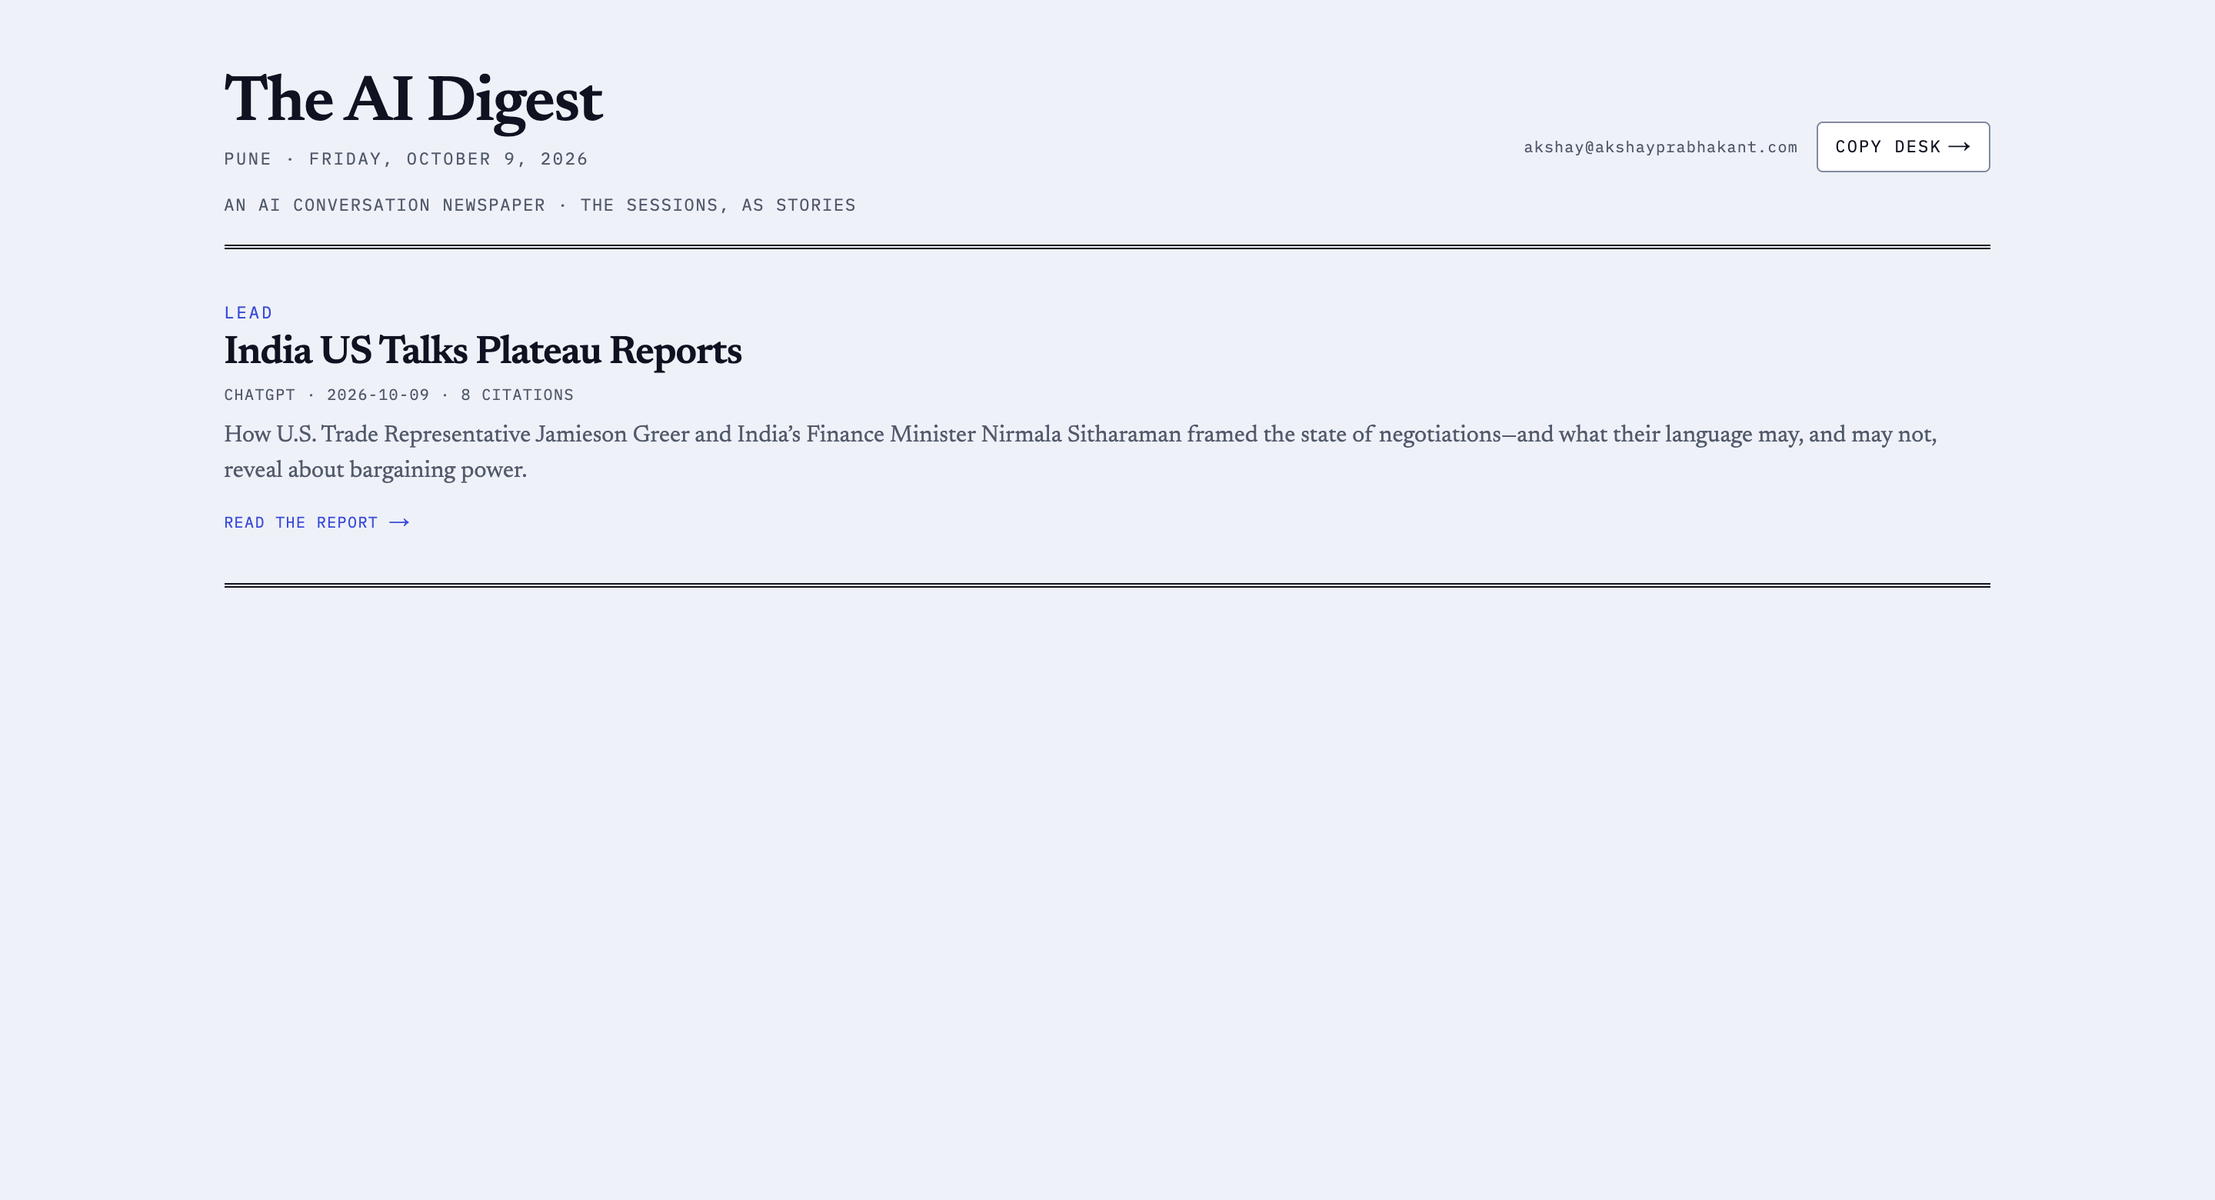
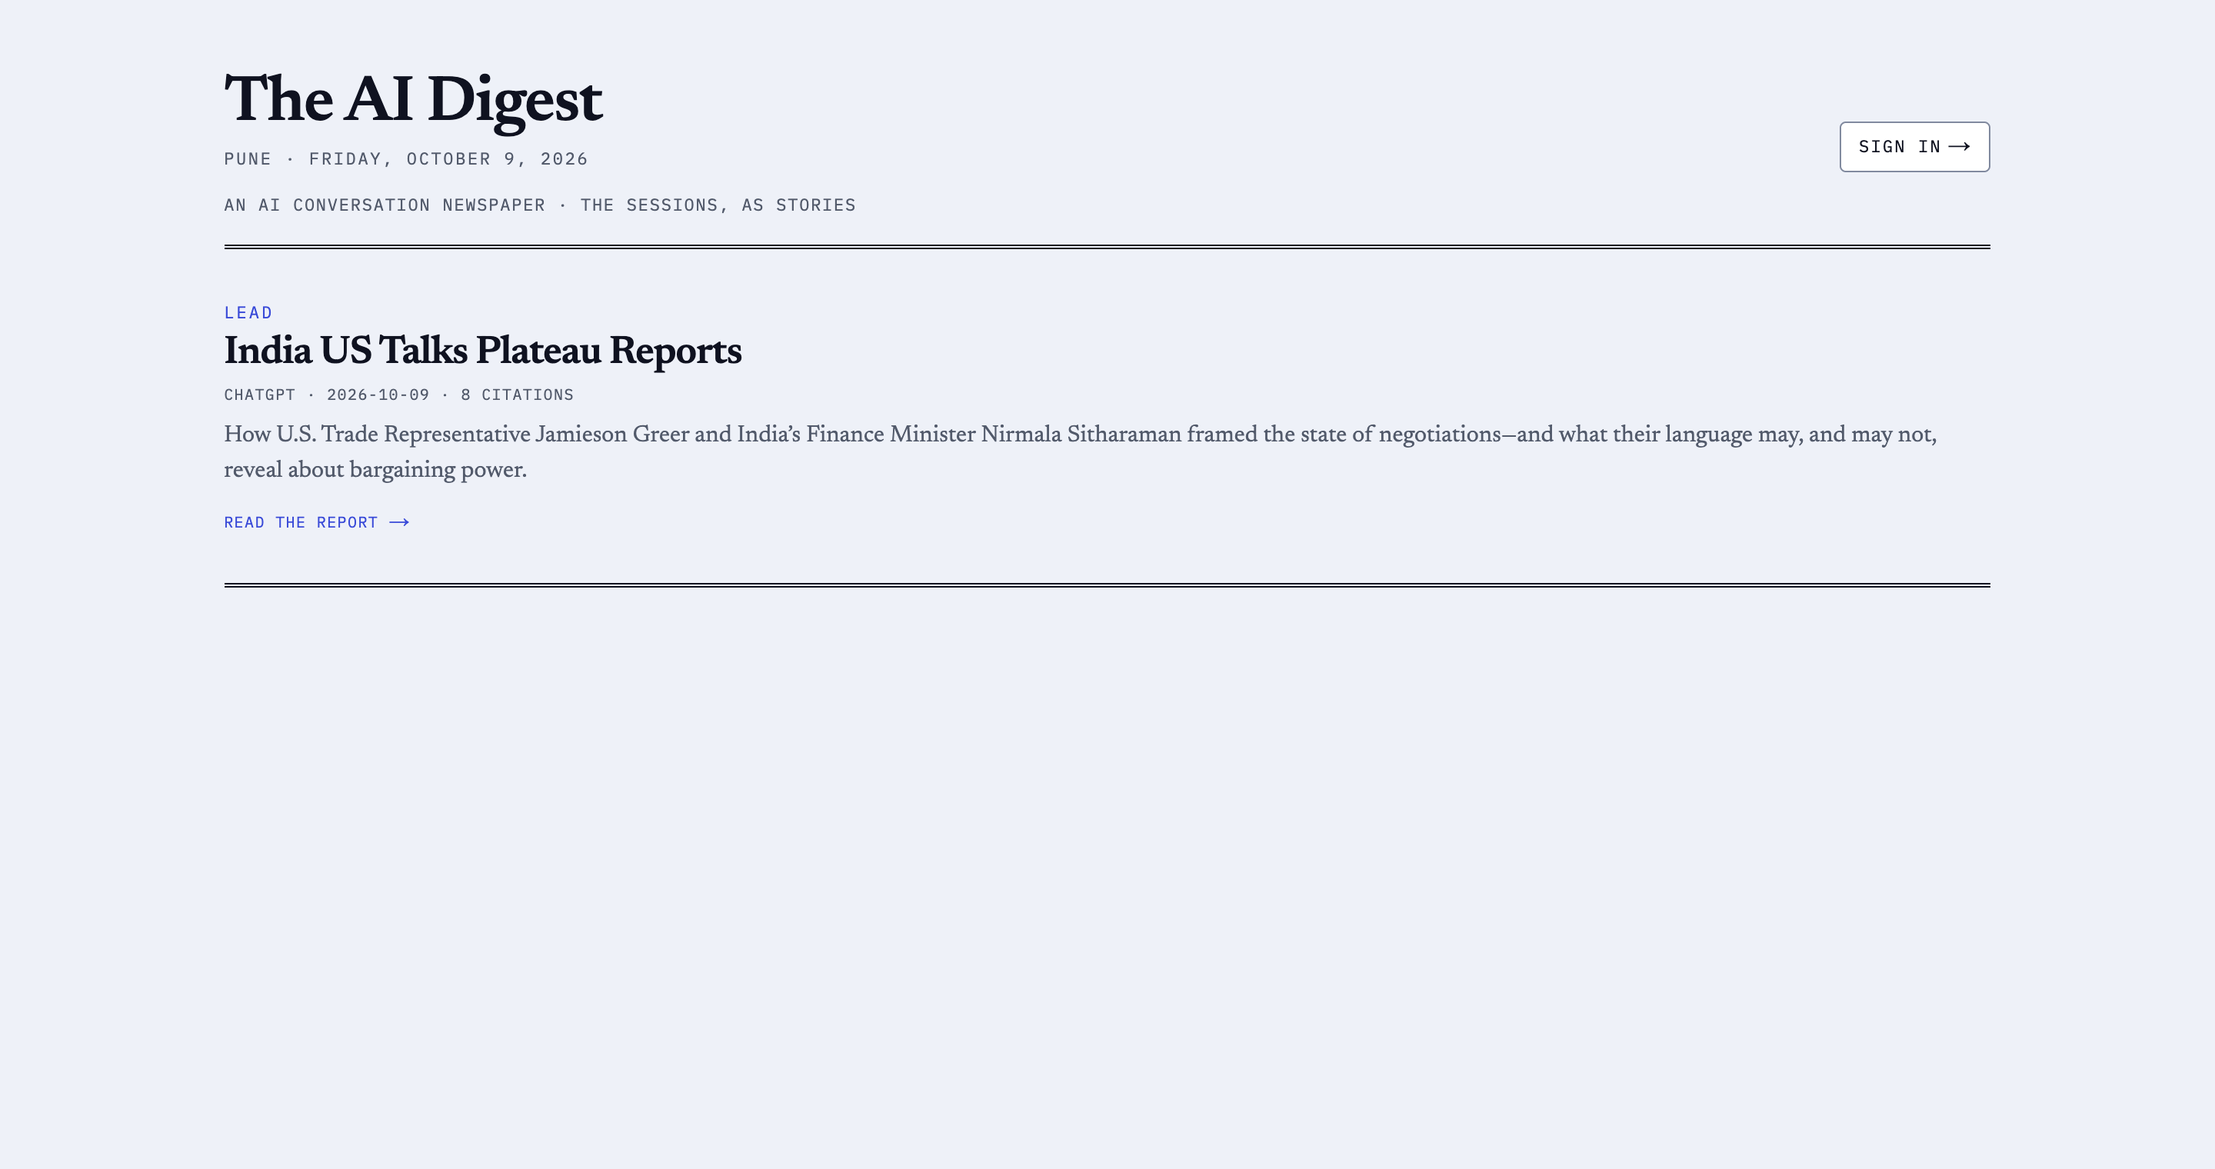
Stop publishing filer addresses on a public archive
Two leaks, one visible and one not.

The visible one: the masthead printed the signed-in reader's address next to
the Copy desk chip. On a public newspaper that is the one place an email must
never appear — the whole design keeps addresses out of URLs and out of
payloads, and stamping one into the nameplate undoes that for anyone reading
over a shoulder, in a screenshot, or on a projector. The slot is now just
"Sign in" or "Copy desk".

The invisible one is worse, and it was mine: I added c.owner_email to the
list_all SELECT when the edition went public, which put every filer's address
into the JSON served to anonymous visitors at GET /api/sessions. Nothing
rendered it, so it never showed up on screen — it was only visible by reading
the raw response:

    "owner_email": "akshay@akshayprabhakant.com"

So the fix is not cosmetic. Both listings now omit owner_email from their
SELECT: the column is read for its WHERE clause and its uniqueness, never to
be handed to a client. Provenance is still recorded and still keys the upsert,
and exactly one endpoint returns an address — /api/whoami, to the person it
belongs to. The copy desk still shows it, deliberately: it is a gated page, and
"which account am I filing as?" is a real question before a write.

/api/health on the local server also echoed dev_email; it now reports
dev_identity_configured as a boolean. An unauthenticated endpoint that echoes
an address leaks one the moment it is exposed by a tunnel or a mis-set PORT,
[…]

Changed region(s): [[0.0938, 0.2474, 0.875, 0.4947], [0.0938, 0.0618, 0.9062, 0.2164], [0.8125, 0.0928, 0.9062, 0.1546]]

diff --git a/frontend/app/components/MastheadActions.tsx b/frontend/app/components/MastheadActions.tsx
@@ -9,33 +9,37 @@ import { whoami } from '@/lib/api';
  * public pages.
  *
  *   signed out → Sign in
- *   signed in  → Copy desk, plus who you are
+ *   signed in  → Copy desk
  *
- * There is deliberately no import box here any more. Filing copy is a
- * different job from reading the paper, and it belongs on its own page: an
- * input wedged into the nameplate was both cramped and permanently visible to
- * people who could not use it.
+ * Two things are deliberately absent.
+ *
+ * There is no import box: filing copy is a different job from reading the
+ * paper, and it belongs on its own page. An input wedged into the nameplate
+ * was both cramped and permanently visible to people who could not use it.
+ *
+ * And there is no address. Printing "akshay@akshayprabhakant.com" in the
+ * nameplate of a *public* newspaper is the one place an email must never
+ * appear — the whole design keeps addresses off the wire and out of URLs, and
+ * stamping one into the masthead undoes that for anyone looking over a
+ * shoulder, in a screenshot, or on a projector. The desk confirms who you are
+ * signed in as, on the one page that requires signing in to see.
  *
  * Sign in is an <a> styled as a button, not a <button>: it navigates, so link
  * semantics (middle-click, open-in-new-tab, screen-reader "link") are the
  * correct ones.
  */
 export default function MastheadActions() {
-  const [email, setEmail] = useState<string | null>(null);
-  const [resolved, setResolved] = useState(false);
+  const [signedIn, setSignedIn] = useState<boolean | null>(null);
 
   useEffect(() => {
     let cancelled = false;
     whoami()
-      .then((value) => {
-        if (!cancelled) setEmail(value);
+      .then((email) => {
+        if (!cancelled) setSignedIn(Boolean(email));
       })
       .catch(() => {
         // The backend being down is not a reason to hide the sign-in link.
-        if (!cancelled) setEmail(null);
-      })
-      .finally(() => {
-        if (!cancelled) setResolved(true);
+        if (!cancelled) setSignedIn(false);
       });
     return () => {
       cancelled = true;
@@ -43,25 +47,12 @@ export default function MastheadActions() {
   }, []);
 
   // Reserve the slot while resolving so the masthead does not reflow.
-  if (!resolved) return <div className="mh-actions" aria-hidden="true" />;
-
-  if (!email) {
-    return (
-      <div className="mh-actions">
-        <Link href="/chat-archives/login" className="signin">
-          Sign in <span aria-hidden="true">→</span>
-        </Link>
-      </div>
-    );
-  }
+  if (signedIn === null) return <div className="mh-actions" aria-hidden="true" />;
 
   return (
     <div className="mh-actions">
-      <span className="reader" title={email}>
-        {email}
-      </span>
-      <Link href="/chat-archives/desk" className="signin">
-        Copy desk <span aria-hidden="true">→</span>
+      <Link href={signedIn ? '/chat-archives/desk' : '/chat-archives/login'} className="signin">
+        {signedIn ? 'Copy desk' : 'Sign in'} <span aria-hidden="true">→</span>
       </Link>
     </div>
   );

diff --git a/frontend/types/index.ts b/frontend/types/index.ts
@@ -3,9 +3,13 @@ export interface Session {
   title: string;
   created_at: string;
   source: string;
-  /** Who filed it. Provenance, shown as a credit — not an access boundary. */
-  owner_email?: string | null;
-  /** Raw markdown of the summary report (the "thumbnail"). */
+  /**
+   * Raw markdown of the summary report (the "thumbnail").
+   *
+   * Note there is no `owner_email` here. Provenance is stored server-side and
+   * never sent on a listing: `/api/sessions` answers anonymous visitors, so a
+   * per-row address would publish every filer's email in the JSON.
+   */
   markdown?: string | null;
 }
 

diff --git a/frontend/app/globals.css b/frontend/app/globals.css
@@ -155,18 +155,6 @@ body {
   transform: translateY(1px);
 }
 
-/* The signed-in reader's address, set like a small masthead credit. */
-.mh-actions .reader {
-  font-family: var(--mono);
-  font-size: 0.625rem;
-  letter-spacing: 0.06em;
-  color: var(--muted);
-  max-width: 14rem;
-  overflow: hidden;
-  text-overflow: ellipsis;
-  white-space: nowrap;
-}
-
 /* ── the copy desk ─────────────────────────────────── */
 .desk {
   max-width: 44rem;

diff --git a/backend/chat_archive/sqlite_repository.py b/backend/chat_archive/sqlite_repository.py
@@ -247,25 +247,21 @@ class SqliteConversationRepository(ConversationRepository):
         )
 
     async def list_all(self, limit: int = 200) -> list[dict]:
-        """The public edition: every filed story, newest first, no owner filter."""
+        """The public edition: every filed story, newest first, no owner filter.
+
+        ``owner_email`` is deliberately not selected — see the D1 implementation
+        for why.
+        """
         with self._lock:
             rows = self._conn.execute(
-                "SELECT c.external_id AS id, c.title, c.created_at, c.source, c.owner_email, "
-                "r.markdown "
+                "SELECT c.external_id AS id, c.title, c.created_at, c.source, r.markdown "
                 "FROM conversations c "
                 "LEFT JOIN reports r ON r.conversation_id = c.id "
                 "ORDER BY c.created_at DESC LIMIT ?",
                 (limit,),
             ).fetchall()
         return [
-            {
-                "id": r[0],
-                "title": r[1],
-                "created_at": r[2],
-                "source": r[3],
-                "owner_email": r[4],
-                "markdown": r[5],
-            }
+            {"id": r[0], "title": r[1], "created_at": r[2], "source": r[3], "markdown": r[4]}
             for r in rows
         ]
 
@@ -276,8 +272,7 @@ class SqliteConversationRepository(ConversationRepository):
 
         with self._lock:
             rows = self._conn.execute(
-                "SELECT c.external_id AS id, c.title, c.created_at, c.source, c.owner_email, "
-                "r.markdown "
+                "SELECT c.external_id AS id, c.title, c.created_at, c.source, r.markdown "
                 "FROM conversations c "
                 "LEFT JOIN reports r ON r.conversation_id = c.id "
                 "WHERE c.owner_email = ? "
@@ -285,13 +280,6 @@ class SqliteConversationRepository(ConversationRepository):
                 (owner, limit),
             ).fetchall()
         return [
-            {
-                "id": r[0],
-                "title": r[1],
-                "created_at": r[2],
-                "source": r[3],
-                "owner_email": r[4],
-                "markdown": r[5],
-            }
+            {"id": r[0], "title": r[1], "created_at": r[2], "source": r[3], "markdown": r[4]}
             for r in rows
         ]

diff --git a/backend/test/test_ownership.py b/backend/test/test_ownership.py
@@ -125,9 +125,40 @@ class OwnershipContract:
         self.assertEqual({s["id"] for s in edition}, {"share-a", "share-b"})
 
     def test_the_edition_records_who_filed_each_story(self):
-        """Ownership survives as provenance, even though it gates nothing now."""
+        """Provenance is stored, even though it is never published.
+
+        The row shape must NOT carry the address: `/api/sessions` is served to
+        anonymous visitors, so returning `owner_email` here publishes the
+        filer's email to anyone who opens the JSON. Provenance stays in the
+        database — it keys the upsert and scopes list_recent.
+        """
         asyncio.run(self.repo.upsert(conversation("share-a", "A story", AKSHAY)))
-        self.assertEqual(asyncio.run(self.repo.list_all())[0]["owner_email"], AKSHAY)
+        row = asyncio.run(self.repo.list_all())[0]
+        self.assertNotIn("owner_email", row, "the public edition must not carry filer addresses")
+
+    def test_no_listing_row_ever_carries_an_email(self):
+        """Guard for both listings: no address on the wire, public or private.
+
+        The scoped endpoint already returns `owner` at the top level to the one
+        person it belongs to, so a per-row address is redundant as well as
+        risky.
+        """
+        asyncio.run(self.repo.upsert(conversation("share-a", "A story", AKSHAY)))
+
+        for label, rows in (
+            ("list_all", asyncio.run(self.repo.list_all())),
+            ("list_recent", asyncio.run(self.repo.list_recent(AKSHAY))),
+        ):
+            with self.subTest(listing=label):
+                self.assertTrue(rows, "expected at least one row")
+                for row in rows:
+                    self.assertNotIn("owner_email", row)
+                    for value in row.values():
+                        self.assertNotIn(
+                            AKSHAY,
+                            str(value),
+                            f"{label} leaked the filer's address in a field value",
+                        )
 
     # -- your own filings stay scoped ----------------------------------------
 

diff --git a/backend/chat_archive/repository.py b/backend/chat_archive/repository.py
@@ -99,10 +99,17 @@ class D1ConversationRepository(ConversationRepository):
             ).bind(report_id, conv_id).run()
 
     async def list_all(self, limit: int = 200) -> list[dict]:
-        """The public edition: every filed story, newest first, no owner filter."""
+        """The public edition: every filed story, newest first, no owner filter.
+
+        ``owner_email`` is deliberately **not selected**. This row shape is
+        served to anonymous visitors, so including the filer's address would
+        publish it to anyone who opened the JSON. Provenance stays in the
+        database — it keys the upsert and scopes :meth:`list_recent` — and the
+        only place it is ever returned to a client is `/api/whoami`, to the
+        person it belongs to.
+        """
         result = await self._db.prepare(
-            "SELECT c.external_id AS id, c.title, c.created_at, c.source, c.owner_email, "
-            "r.markdown "
+            "SELECT c.external_id AS id, c.title, c.created_at, c.source, r.markdown "
             "FROM conversations c "
             "LEFT JOIN reports r ON r.conversation_id = c.id "
             "ORDER BY c.created_at DESC LIMIT ?"
@@ -118,9 +125,11 @@ class D1ConversationRepository(ConversationRepository):
             # edition does not go through here — see list_all.)
             raise ValueError("list_recent requires an owner_email.")
 
+        # Same row shape as list_all, and for the same reason: no owner_email on
+        # the wire. The endpoint that calls this already knows who is asking —
+        # it returns `owner` at the top level.
         result = await self._db.prepare(
-            "SELECT c.external_id AS id, c.title, c.created_at, c.source, c.owner_email, "
-            "r.markdown "
+            "SELECT c.external_id AS id, c.title, c.created_at, c.source, r.markdown "
             "FROM conversations c "
             "LEFT JOIN reports r ON r.conversation_id = c.id "
             "WHERE c.owner_email = ? "

diff --git a/backend/chat_archive/local_repository.py b/backend/chat_archive/local_repository.py
@@ -55,15 +55,16 @@ class MemoryConversationRepository(ConversationRepository):
 
     @staticmethod
     def _rows(items, limit: int) -> list[dict]:
+        # No owner_email in the row shape — these rows are served to anonymous
+        # visitors on the edition endpoint. See the D1 implementation.
         rows: list[dict] = []
-        for (owner, _), conversation in items:
+        for (_, _unused), conversation in items:
             rows.append(
                 {
                     "id": conversation.share_id,
                     "title": conversation.title,
                     "created_at": "",
                     "source": "chatgpt",
-                    "owner_email": owner,
                     "markdown": conversation.report,
                 }
             )

diff --git a/backend/local_server.py b/backend/local_server.py
@@ -160,7 +160,12 @@ class Handler(BaseHTTPRequestHandler):
                     "ok": True,
                     "runtime": "local-server",
                     "identity_provider": "DevIdentity",
-                    "dev_email": DEV_EMAIL or None,
+                    # A boolean, not the address. This endpoint is unauthenticated
+                    # even locally, and an endpoint that echoes an email is an
+                    # endpoint that leaks one the moment it is exposed by a
+                    # tunnel or a mis-set PORT. Whether a dev identity exists is
+                    # the whole debugging value; the value itself adds nothing.
+                    "dev_identity_configured": bool(DEV_EMAIL),
                 }
             )
 

diff --git a/README.md b/README.md
@@ -10,8 +10,9 @@ a newspaper. See `plan.md` for the full design.
 
 Sessions laid out as a newspaper front page: two leads above the fold, a third
 heading the flow beneath, then three columns that each run to their own ragged
-depth. **Public, and the same edition for everyone** — ownership is a credit
-line, not a filter. The only control in the masthead is Sign in.
+depth. **Public, and the same edition for everyone.** The only control in the
+masthead is Sign in — no import box, and no email address, on a page anyone can
+read.
 
 ![The front page](docs/screenshots/01-front-page.png)
 
@@ -19,7 +20,8 @@ line, not a filter. The only control in the masthead is Sign in.
 
 Where a share link becomes a story. Reached by signing in, and gated: the
 filing endpoint is the only write in the product. It also shows your own recent
-filings, which is what the `owner_email` column is still for.
+filings, which is what the `owner_email` column is still for — and the one place
+your address is shown back to you, on a page that requires signing in.
 
 ![The copy desk](docs/screenshots/08-copy-desk.png)
 
@@ -68,9 +70,13 @@ One rule, stated once: **public reads, private writes.** The only gated actions
 are `POST /api/ingest` and `GET /api/filings`.
 
 Ownership is still recorded (`conversations.owner_email`) but it is *provenance,
-not an access boundary* — it drives the credit line and the desk's "your recent
-filings" list. The upsert key remains `(owner_email, external_id)`, so two people
-can file the same share link and both are in the edition.
+not an access boundary*, and it never leaves the server on a read: it keys the
+upsert, scopes the desk's "your recent filings" query, and is returned by exactly
+one endpoint — `/api/whoami`, to the person it belongs to. No listing carries an
+address, because `/api/sessions` answers anonymous visitors and a per-row address
+there would publish every filer's email in the JSON. The upsert key remains
+`(owner_email, external_id)`, so two people can file the same share link and both
+are in the edition.
 
 Provenance is also what makes the other sources cheap to add: `conversations.source`
 is already `chatgpt | gemini | claude | elicit`, and each becomes another

diff --git a/plan.md b/plan.md
@@ -58,10 +58,14 @@ One rule: **public reads, private writes.**
 | File a share link | **Yes** | The only action that spends money and storage. |
 | See your own filings | **Yes** | Provenance, not a boundary — it answers "what did I file?". |
 
-Ownership is *provenance*, not an access boundary: `conversations.owner_email`
-drives the credit line and the desk's "your recent filings" list. It is retained
-in the upsert key — the pair `(owner_email, external_id)` — so two people can
-file the same share link and both appear in the edition.
+Ownership is *provenance*, not an access boundary, and it **never leaves the
+server on a read**: `conversations.owner_email` keys the upsert, scopes the
+desk's "your recent filings" query, and is returned by exactly one endpoint
+(`/api/whoami`, to its owner). No listing row carries an address — `/api/sessions`
+is served to anonymous visitors, so a per-row address would publish every filer's
+email in the JSON. It is retained in the upsert key — the pair
+`(owner_email, external_id)` — so two people can file the same share link and both
+appear in the edition.
 
 The `source` column is what makes the other vendors cheap: `chatgpt | gemini |
 claude | elicit` already exists, and each new one is another parser

diff --git a/docs/access-limits.md b/docs/access-limits.md
@@ -379,8 +379,8 @@ because the Worker must mail the code.
 
 Either way, **provenance is our code and stays our code**: Access can gate a
 path, but it can never record who filed what. That is
-`conversations.owner_email`, and it is what the front page credit line and the
-desk's "your recent filings" list read.
+`conversations.owner_email` — internal, never published on a listing, and read
+only by the desk's "your recent filings" query.
 
 ## Sources
 
